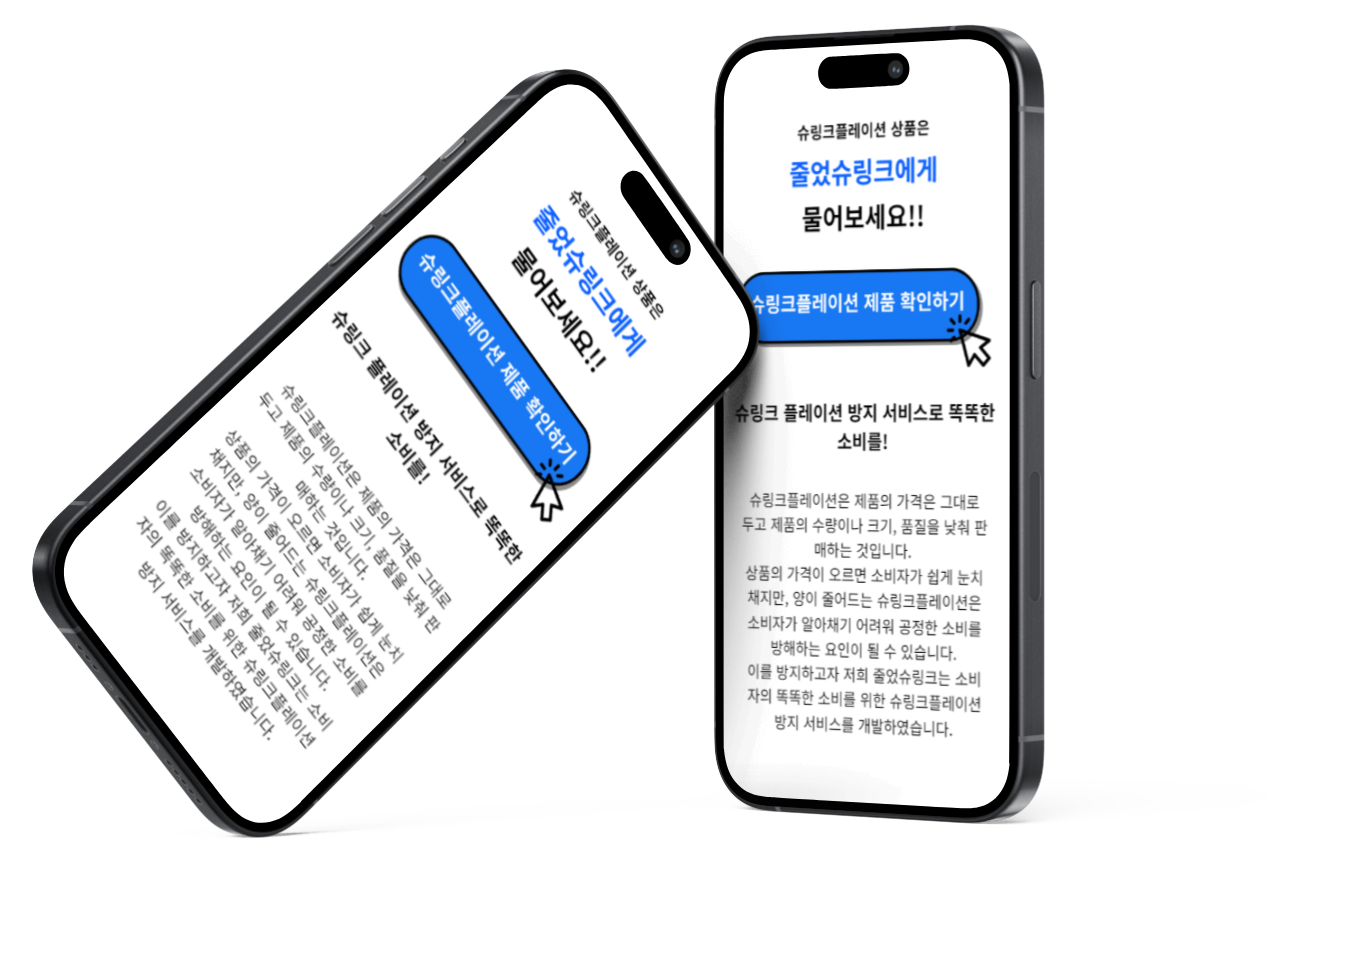
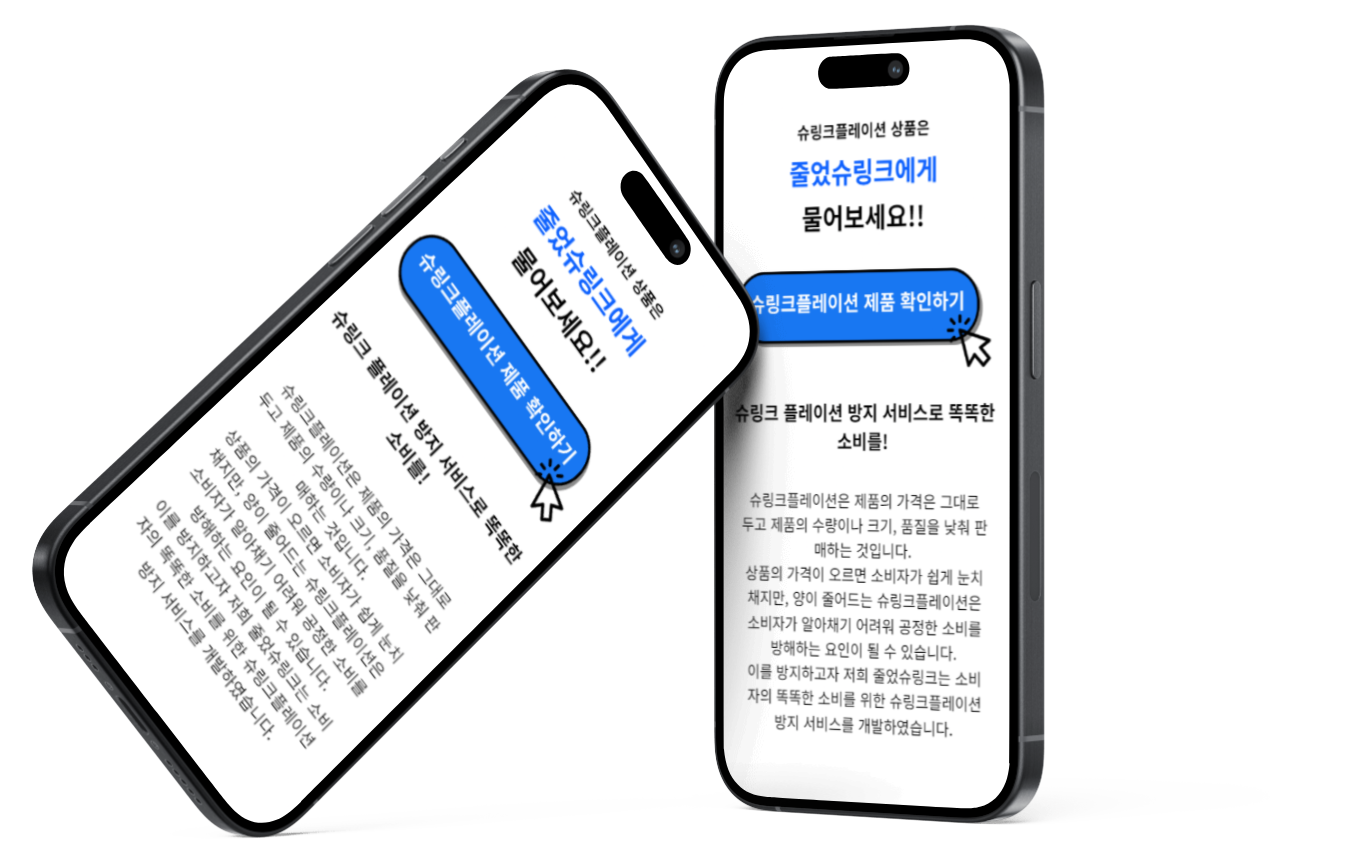
design: 랜딩 페이지 반응형 개발, 목업 추가

Changed region(s): [[0.0, 0.0, 0.7807, 1.0]]

diff --git a/src/pages/ExamplePage/Section/Introduce/styled.jsx b/src/pages/ExamplePage/Section/Introduce/styled.jsx
@@ -1,17 +1,16 @@
 import styled, { keyframes } from "styled-components";
 
 const moveAndFade = keyframes`
-  0% { transform: translateY(0) rotate(45deg); opacity: 0; }
-  50% { transform: translateY(10px) rotate(45deg); opacity: 1; }
-  100% { transform: translateY(0) rotate(45deg); opacity: 0; }
+  0% { transform: translateY(0); opacity: 0; }
+  50% { transform: translateY(10px); opacity: 1; }
+  100% { transform: translateY(0); opacity: 0; }
 `;
 
 export const Arrow = styled.div`
+  color: rgba(255, 255, 255, 0.35);
   width: 32px;
   height: 32px;
-  border-bottom: 6px solid #fff; //rgba(63, 93, 254, 1);
-  border-right: 6px solid #fff; //rgba(63, 93, 254, 1);
-  transform: rotate(45deg);
+  font-size: 5vw;
   animation: ${moveAndFade} 1s ease-in-out infinite;
 
   &.delay {
@@ -25,42 +24,59 @@ export const Container = styled.section`
     rgba(186, 197, 255, 1) 44%,
     rgba(255, 255, 255, 1) 100%
   );
+
   height: 100vh;
-
-  //border-bottom: 2px dashed greenyellow;
-
   display: flex;
   flex-direction: row;
-  width: 100%;
   justify-content: center;
   align-items: center;
 
+  @media (max-width: 768px) {
+    flex-direction: column;
+  }
+
   .left {
+    padding-bottom: 20em;
+
+    @media (max-width: 768px) {
+      padding-bottom: 0;
+    }
+
+    flex: 1;
     flex-shrink: 0;
-    width: 50%;
+
+    //border: 4px dashed orange;
+
+    display: flex;
+    justify-content: flex-end;
+    align-items: center;
+
+    order: 1;
 
     .title {
-      position: absolute;
-      top: 50%;
-      transform: translateY(-50%);
+      font-family: "SOYOMapleBoldTTF";
+      //font-family: "GmarketSans";
 
       h2 {
         padding: 0 0 0 4px;
-        margin: 0;
-        font-size: 4vw;
+        margin: 0 0 12px 0;
+        font-size: 3.5vw;
+        font-weight: 400;
       }
+
       h1 {
+        font-weight: 400;
+
         padding: 0;
         margin: 0;
-        font-size: 7vw;
+        font-size: 6vw;
         color: #0f62fe;
 
-        font-weight: bold;
         text-shadow:
-          1px 1px 0 #ccc,
-          2px 2px 0 #c9c9c9,
-          3px 3px 0 #bbb,
-          4px 4px 0 #b9b9b9;
+          1px 1px 0 #fff,
+          2px 2px 0 #fff,
+          3px 3px 0 #fff,
+          4px 4px 0 #fff;
       }
     }
 
@@ -72,15 +88,38 @@ export const Container = styled.section`
       background-color: transparent;
       border: none;
       outline: none;
+      cursor: pointer;
     }
   }
 
   .right {
-    width: 50%;
-    flex-shrink: 0;
-  }
+    padding-bottom: 4em;
 
-  img.mokup {
-    width: 50%;
+    @media (max-width: 768px) {
+      padding-bottom: 12em;
+      justify-content: center;
+      flex: 1;
+    }
+
+    flex: 1;
+    flex-shrink: 0;
+
+    order: 2;
+
+    display: flex;
+    justify-content: flex-start;
+    align-items: center;
+    //border: 4px dashed red;
+
+    img.mokup {
+      padding-left: 24px;
+      width: 100%;
+
+      @media (max-width: 768px) {
+        width: 75%;
+        padding-left: 0;
+        justify-content: center;
+      }
+    }
   }
 `;

diff --git a/src/pages/ExamplePage/Section/Introduce/index.jsx b/src/pages/ExamplePage/Section/Introduce/index.jsx
@@ -1,5 +1,6 @@
 import { Arrow, Container } from "./styled";
 import mockupImg from "./img/mockup.png";
+import { IoIosArrowDown } from "react-icons/io";
 
 const IntroduceSection = () => {
   const onClickTeam = () => {
@@ -18,13 +19,17 @@ const IntroduceSection = () => {
           <h1>슈링크플레이션</h1>
         </div>
         <button className="move-story1">
-          <Arrow />
-          <Arrow className="delay" />
+          <Arrow>
+            <IoIosArrowDown />
+          </Arrow>
+          <Arrow className="delay">
+            <IoIosArrowDown />
+          </Arrow>
         </button>
       </div>
-      {/*<div className="right">*/}
-      {/*  <img className="mokup" src={mockupImg} alt="목업 이미지" />*/}
-      {/*</div>*/}
+      <div className="right">
+        <img className="mokup" src={mockupImg} alt="목업 이미지" />
+      </div>
     </Container>
   );
 };

diff --git a/src/index.css b/src/index.css
@@ -1,12 +1,18 @@
 @import url('https://webfontworld.github.io/gmarket/GmarketSans.css');
-/*@import url('https://fonts.googleapis.com/css2?family=Righteous&display=swap');*/
 @import url('https://fonts.googleapis.com/css2?family=Noto+Sans+KR&display=swap');
+
+@font-face {
+    font-family: "SOYOMapleBoldTTF";
+    src: url("https://cdn.jsdelivr.net/gh/projectnoonnu/noonfonts_2310@1.0/SOYOMapleBoldTTF.woff2")
+    format("woff2");
+    font-weight: 700;
+    font-style: normal;
+}
+
 
 body {
     margin: 0;
-    /*background-color: #F0F0F0;*/
     background-color: #fff;
-    /*background-color: #F9FAFB;*/
     font-family: 'Noto Sans KR', sans-serif;
 }
 

diff --git a/src/layouts/Header/Section/LogoCotainer/styled.jsx b/src/layouts/Header/Section/LogoCotainer/styled.jsx
@@ -18,7 +18,7 @@ export const Container = styled.div`
 
       height: 44px; /** logo2.png 사용시 주석 제거 */
       width: 44px; /** logo2.png 사용시 주석 제거 */
-      margin-top: 8px; /** logo2.png 사용시 주석 제거 */
+      margin-top: 2px; /** logo2.png 사용시 주석 제거 */
 
       @media (max-width: 768px) {
         height: 38px;
@@ -30,6 +30,8 @@ export const Container = styled.div`
     .content {
       margin-left: 0.5em;
       margin-right: 2em;
+
+      font-family: "SOYOMapleBoldTTF";
 
       @media (max-width: 768px) {
         display: none;

diff --git a/src/pages/ExamplePage/Section/Story1/styled.jsx b/src/pages/ExamplePage/Section/Story1/styled.jsx
@@ -25,12 +25,13 @@ export const Container = styled.section`
     flex-direction: column;
 
     h1 {
-      font-size: 5vw;
+      font-size: 4vw;
       padding: 0;
     }
 
     h2 {
-      font-size: 3.5vw;
+      font-size: 2.5vw;
+      font-weight: 400;
       color: #fff;
       padding: 0;
       margin: 0;
